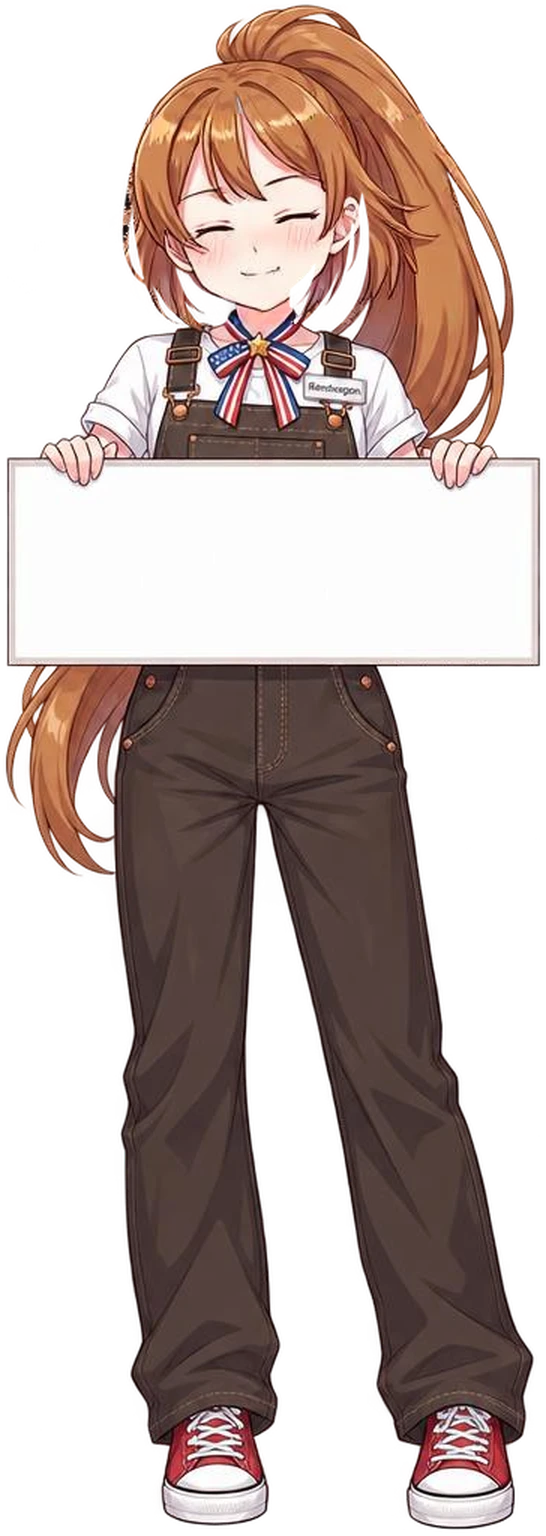
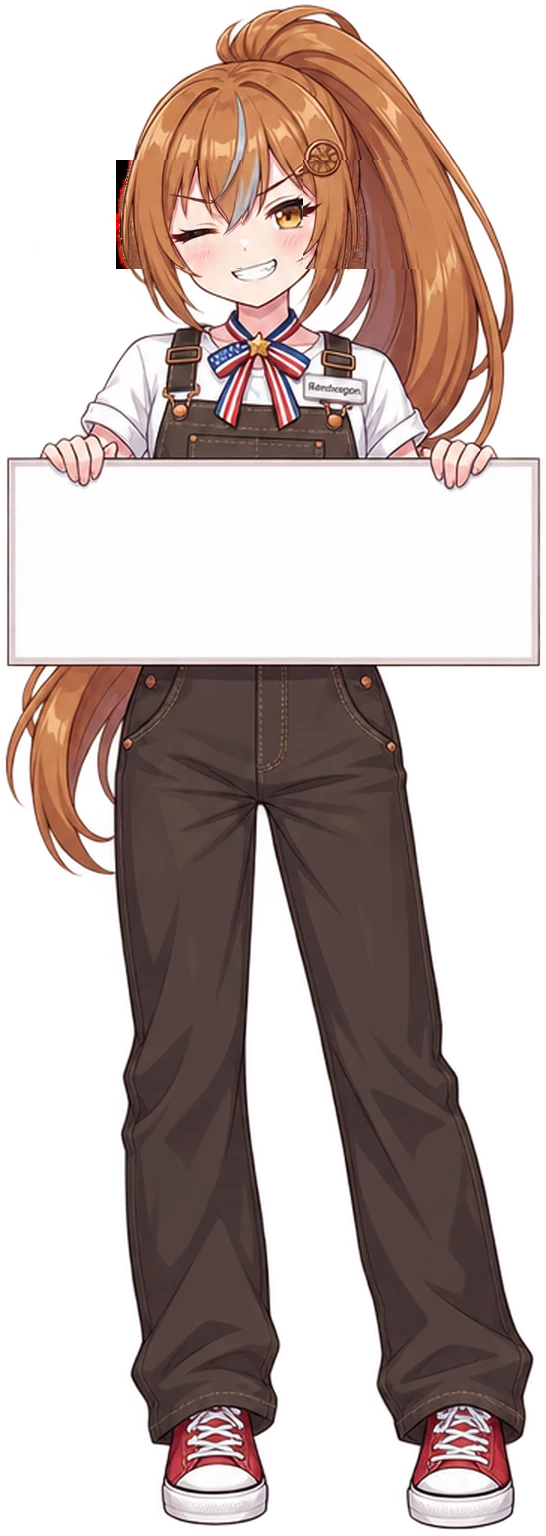
二次元皮肤：闭眼帧改走 CPA 的 gpt-image 紧蒙版重画，眨眼只动眼睛
上一版闭眼帧是整条宽蒙版交给模型重画，实测除眼睛之外还改了嘴巴和腮红（框外可见变化
3.9%–6.8% 面积，其中嘴巴/腮红区 23k–32k 像素），眨眼时整块脸都在闪。

- 闭眼帧改成：CPA（127.0.0.1:8317，gpt-image-2.5）只蒙两只眼睛那一小块重画，
  再合成回睁眼帧 —— 框外像素与睁眼帧逐像素相同（实测最大差值 0）。
- 眼睛带（--cast-eye-top/bottom）按实测收紧：jp 10.4/19.5%、de 8.2/17.3%、
  vmiss 8.8/17.9%、bwh 9.4/18.5%（上一版是 6.2–23%，16% 高，把刘海和嘴都框进去了）。
- 生图后端从 fal 换成本机 CPA 中转（用户要求），新增 /root/work/blink-cpa.py。

Changed region(s): [[0.1868, 0.0625, 0.8407, 0.2812], [0.4048, 0.25, 0.4359, 0.2812]]

diff --git a/web/anime.css b/web/anime.css
@@ -693,8 +693,8 @@ html[data-skin="anime"] .node-card[data-cast="jp-nosla-gen2"] {
   --cast-plate-w: 0.967;
   --cast-plate-h: 0.122;
   --cast-cut: 0.439;   /* 摊开时立绘露到牌子的下沿，再往下就是数据面板 */
-  --cast-eye-top: 6.4%;
-  --cast-eye-bottom: 22.6%;
+  --cast-eye-top: 10.4%;   /* 眨眼层只在这条带里淡入：= 闭眼帧相对睁眼帧真正被改动的矩形（逐台实测） */
+  --cast-eye-bottom: 19.5%;
   --cast-board: #ffe7f1;
   --cast-cell: rgb(255 255 255 / 0.58);
   --cast-line: #f6b1cc;
@@ -719,8 +719,8 @@ html[data-skin="anime"] .node-card[data-cast="de-nosla-fra"] {
   --cast-plate-w: 0.96;
   --cast-plate-h: 0.107;
   --cast-cut: 0.428;   /* 摊开时立绘露到牌子的下沿，再往下就是数据面板 */
-  --cast-eye-top: 6.6%;
-  --cast-eye-bottom: 22.8%;
+  --cast-eye-top: 8.2%;
+  --cast-eye-bottom: 17.3%;
   --cast-board: #fff5e0;
   --cast-cell: rgb(255 255 255 / 0.56);
   --cast-line: #e7cd90;
@@ -745,8 +745,8 @@ html[data-skin="anime"] .node-card[data-cast="us-vmiss-tri"] {
   --cast-plate-w: 0.94;
   --cast-plate-h: 0.134;
   --cast-cut: 0.44;   /* 摊开时立绘露到牌子的下沿，再往下就是数据面板 */
-  --cast-eye-top: 6.6%;
-  --cast-eye-bottom: 23.0%;
+  --cast-eye-top: 8.8%;
+  --cast-eye-bottom: 17.9%;
   --cast-board: #e9f2ff;
   --cast-cell: rgb(255 255 255 / 0.58);
   --cast-line: #aec9ff;
@@ -771,8 +771,8 @@ html[data-skin="anime"] .node-card[data-cast="us-bwh-dc9"] {
   --cast-plate-w: 0.967;
   --cast-plate-h: 0.112;
   --cast-cut: 0.432;   /* 摊开时立绘露到牌子的下沿，再往下就是数据面板 */
-  --cast-eye-top: 6.2%;
-  --cast-eye-bottom: 22.3%;
+  --cast-eye-top: 9.4%;
+  --cast-eye-bottom: 18.5%;
   --cast-board: #fff3dc;
   --cast-cell: rgb(255 255 255 / 0.56);
   --cast-line: #e9c684;
@@ -873,8 +873,9 @@ html[data-skin="anime"] .anime-fold-btn svg { width: 11px; height: 11px; }
 
 /* 闭眼帧：和立绘同一张图、同一个缩放定位，但盒子是**整张立绘那么高**（720px）——
    这样蒙版的百分比是按立绘坐标算的，展开 / 收起两种状态下都对得上。立绘层 overflow:hidden 负责裁。
-   蒙版只留「眼睛带」（--cast-eye-top / --cast-eye-bottom，实测睁眼闭眼两帧的差异峰值 ±5%）：
-   闭眼帧除了眼睛，别处的线稿也会差一点点，露出多了眨眼就会闪。 */
+   蒙版只留「眼睛带」（--cast-eye-top / --cast-eye-bottom）。闭眼帧是「只蒙两只眼睛交给模型重画、
+   再合成回睁眼帧」来的：框外像素与睁眼帧**逐像素相同**（实测最大差值 0），所以这条带 = 闭眼帧真正
+   改动的矩形，带里除眼睛以外的部分两帧一致。带子放大只会浪费时间，放小会把眼睑切一半。 */
 html[data-skin="anime"] .anime-blink {
   /* 必须显式 display: block：底座样式表把这一层默认藏了（别的皮肤下它是裸元素），
      只写动画不放开显示的话，动画一直在跑、人却永远看不到她眨眼。 */
